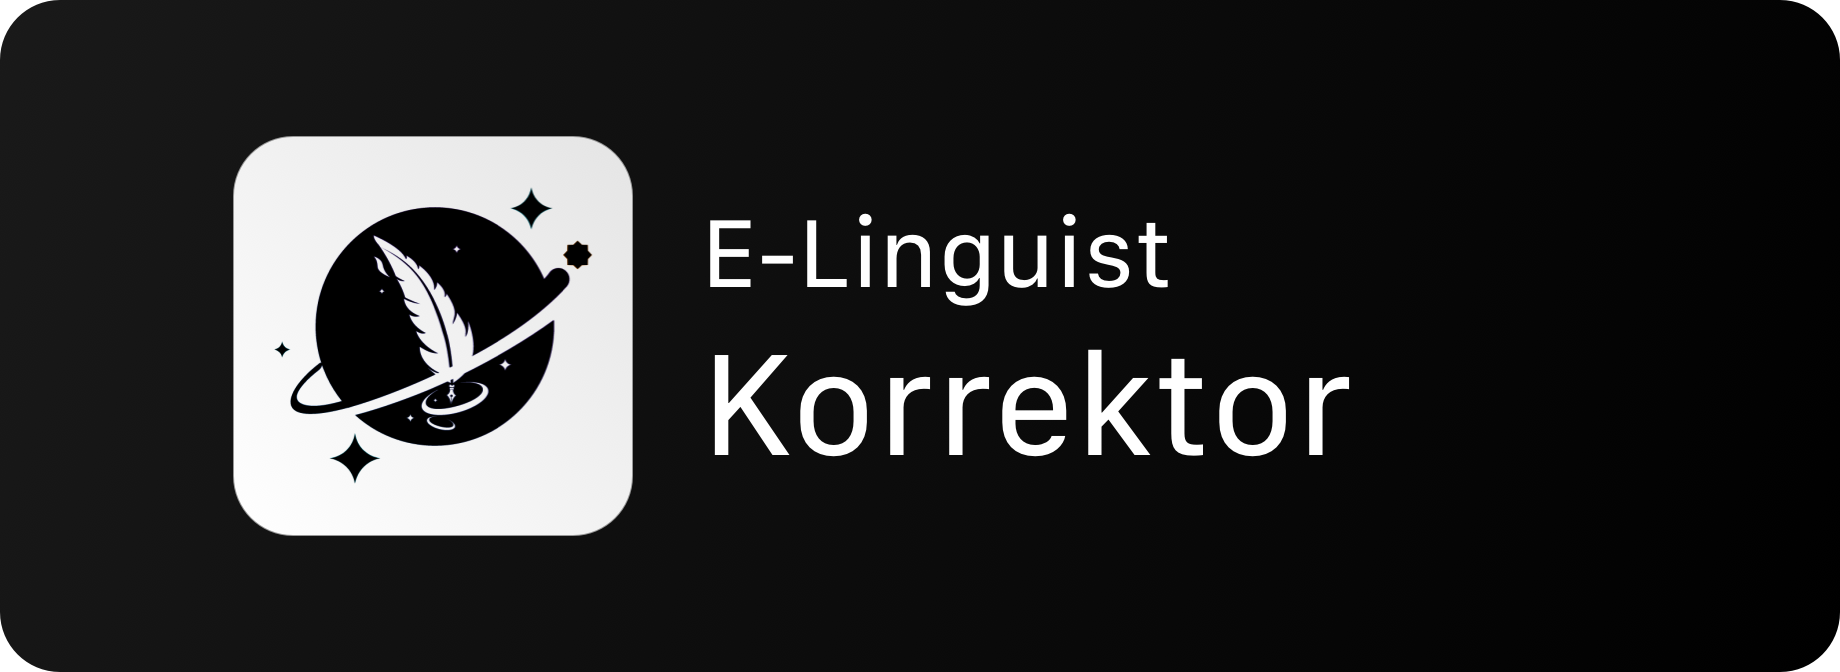
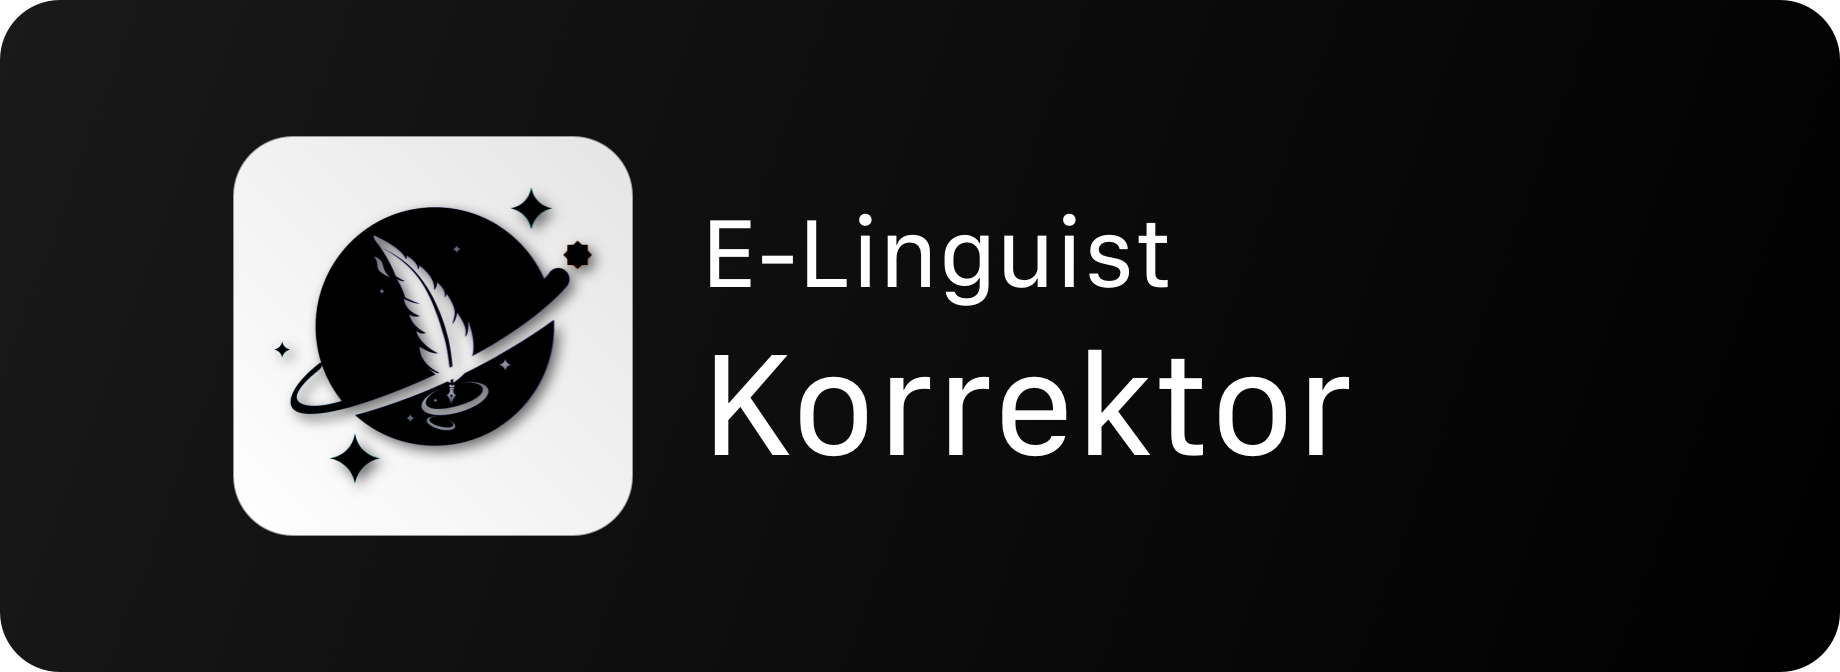
added shader

Changed region(s): [[0.1549, 0.3438, 0.3098, 0.7188], [0.2478, 0.3125, 0.3408, 0.4375]]

diff --git a/profile/README.md b/profile/README.md
@@ -5,13 +5,13 @@
 <p align="center">Our current focus right now is to revive upon uzbek open source but not stray away from contributing to existing technologies.</p>
 
 <p align="center">
-  <a href="https://xinux.uz"><img src="https://github.com/uzinfocom-org/.github/blob/main/images/xinux-banner.png" width=48% alt="Xinux Community"></a>
+  <a href="https://xinux.uz"><img src="https://github.com/uzinfocom-org/.github/blob/main/images/Xinux.png" width=48% alt="Xinux Community"></a>
   &nbsp;&nbsp;&nbsp;
-  <a href="https://cctld.uz"><img src="https://github.com/uzinfocom-org/.github/blob/main/images/cctld-banner.png" width=48% alt="ccTLDuz Administration"></a>
+  <a href="https://cctld.uz"><img src="https://github.com/uzinfocom-org/.github/blob/main/images/CCTLD.png" width=48% alt="ccTLDuz Administration"></a>
 </p>
 
 <p align="center">
-  <a href="https://korrektor.uz"><img src="https://github.com/uzinfocom-org/.github/blob/main/images/korrektor.png" width=48% alt="Korrektor"></a>
+  <a href="https://korrektor.uz"><img src="https://github.com/uzinfocom-org/.github/blob/main/images/Korrektor.png" width=48% alt="Korrektor"></a>
   &nbsp;&nbsp;&nbsp;
-  <a href="https://osmon.dev"><img src="https://github.com/uzinfocom-org/.github/blob/main/images/osmon.png" width=48% alt="Osmon Lang"></a>
+  <a href="https://osmon.dev"><img src="https://github.com/uzinfocom-org/.github/blob/main/images/Osmon.png" width=48% alt="Osmon Lang"></a>
 </p>
